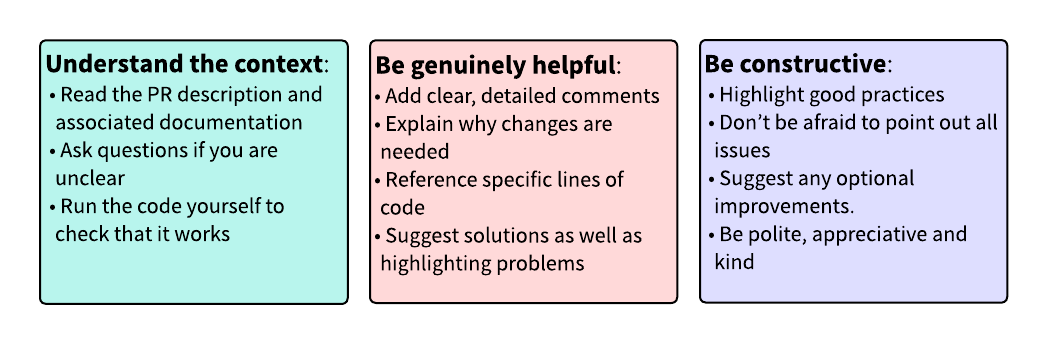
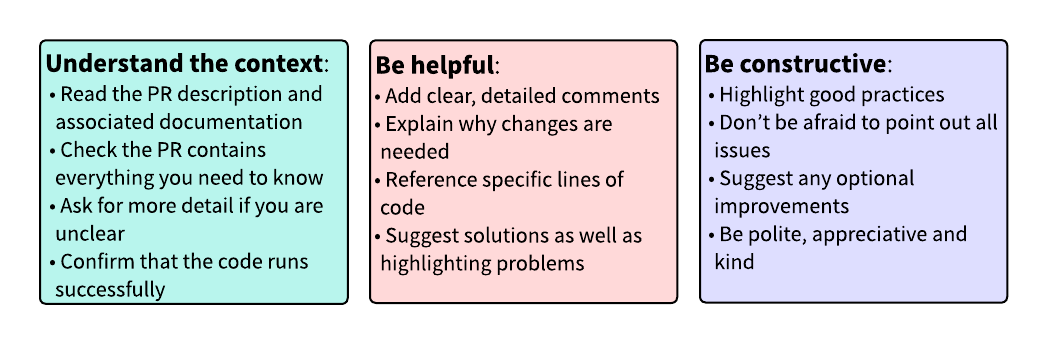
Add clarity on linking discussion exercise to RAP prioritisation; add detail on tailoring QA template and requirements of pull requests; delete un-needed images

diff --git a/slides/RFM_slides_part_1.html b/slides/RFM_slides_part_1.html
@@ -784,7 +784,7 @@ Peer review of code from outside the team
 </section>
 <section id="how-could-rap-have-avoided-these-issues" class="slide level2">
 <h2>How could RAP have avoided these issues?</h2>
-<p>This scenario is exaggerated, but it’s not far from what we see in many teams.</p>
+<p>This scenario is exaggerated, but it’s not far from what we have seen on several occasions.</p>
 <p><br></p>
 <p>This team’s current approach means:</p>
 <ul>
@@ -881,7 +881,7 @@ Peer review of code from outside the team
 <ul>
 <li><em>Which sections offer the greatest benefits?</em></li>
 <li><em>Which sections have most potential for time-saving?</em></li>
-<li><em>Could improving RAP in a certain section achieve a dual purpose?</em></li>
+<li><em>Could improving RAP in a certain section achieve a dual purpose, e.g.&nbsp;accessibility improvements?</em></li>
 <li><em>Are there any dependencies between sections?</em></li>
 <li><em>Are any sections causing issues that need fixing?</em></li>
 </ul>
@@ -890,12 +890,12 @@ Peer review of code from outside the team
 </div></section>
 <section id="discussion" class="slide level2">
 <h2>Discussion</h2>
-<p>Imagine you are working to produce a report on the number of pupils in each school in England, discussing differences between school types, geographic regions etc.</p>
-<p>What would you change about this current process? Which changes would you make first?</p>
+<p>Imagine your team produced a report last year on the number of pupils in each school in England, discussing differences between school types, geographic regions etc. This report needs to be reproduced with the latest year of data.</p>
+<p>What changes could you make to introduce RAP principles to the current process? Use the prioritisation prompts on the previous slide to consider which changes would you make first.</p>
 <div class="column" style="width:100%;">
 <div class="quarto-figure quarto-figure-center">
 <figure>
-<p><img data-src="images/rap_discussion.png" class="quarto-figure quarto-figure-center" style="width:90.0%"></p>
+<p><img data-src="images/rap_discussion.png" class="quarto-figure quarto-figure-center" style="width:84.0%"></p>
 </figure>
 </div>
 </div></section></section>
@@ -1040,7 +1040,14 @@ Peer review of code from outside the team
 <p>Use R to produce an automated QA report, commentary or briefing pack. This can be done using <code>rmarkdown</code> or <code>quarto</code>.</p>
 <div class="columns">
 <div class="column" style="width:50%;">
-<p>The Statistics Development Team have created an example QA report available in the <a href="https://github.com/dfe-analytical-services/automated-data-qa">automated-data-qa repo</a>. This template includes code snippets, which cover the minimum QA checks statistics production teams should be applying. The code snippets can be adjusted to apply the QA checks to your analysis specifically, to help you meet good RAP practice.</p>
+<p>The Statistics Development Team have created an example QA report available in the <a href="https://github.com/dfe-analytical-services/automated-data-qa">automated-data-qa repo</a>. This template includes code snippets, covering the minimum QA checks statistics production teams should be applying.</p>
+<p>It should <em>always</em> be tailored to your specific analysis:</p>
+<ul>
+<li>Is the QA proportionate and appropriate to the level of risk?</li>
+<li>Is the report easily digestible by everyone reading it?</li>
+<li>Are the checks the right ones for your policy context?</li>
+<li>Would 2-layer QA be helpful, i.e., a detailed report for team members and a high-level report for you?</li>
+</ul>
 <p>Using this template could provide you with a report like that seen on the right.</p>
 </div><div class="column" style="width:10%;">
 

diff --git a/slides/RFM_slides_part_2.html b/slides/RFM_slides_part_2.html
@@ -334,18 +334,25 @@
 </section>
 <section id="what-should-i-include-in-a-pull-request" class="slide level2">
 <h2>What should I include in a pull request?</h2>
+<p>It is up to the person requesting review to include sufficient detail. Ideally you should be able to pick up a pull request and know exactly what to check without asking for any more information!</p>
+<p><br></p>
+<div class="column" style="width:40%;">
+<p>A pull request should include:</p>
 <ul>
-<li>It is up to the person requesting review to include sufficient detail.</li>
-<li>Ideally you should be able to pick up a pull request and know exactly what to check without asking for any more information!</li>
-<li>You might wish to set a pull request template on your repo to encourage people to add all required information:</li>
+<li>A detailed description of the changes</li>
+<li>Why the changes are required</li>
+<li>How you have tested the changes</li>
+<li>How the reviewer should test the changes</li>
+<li>Links to any relevant issue tickets</li>
 </ul>
-<div class="column" style="width:100%;">
+</div><div class="column" style="width:60%;">
 <div class="quarto-figure quarto-figure-center">
 <figure>
-<p><img data-src="images/github-pr-template.png" class="quarto-figure quarto-figure-center" style="width:30.0%"></p>
+<p><img data-src="images/github-pr-template.png" class="quarto-figure quarto-figure-center" style="width:60.0%"></p>
 </figure>
 </div>
-</div></section>
+</div><p>You might wish to set a pull request template on your repo to encourage people to add all required information.</p>
+</section>
 <section id="recommended-pr-work-flow" class="slide level2">
 <h2>Recommended PR work flow</h2>
 <p>There should usually be at least two team members available to work on a pipeline (and in general, any piece of analysis). For low-risk analysis, as QA should be proportionate, this may be unnecessary - but pull requests should still be created for an audit trail regardless!</p>
